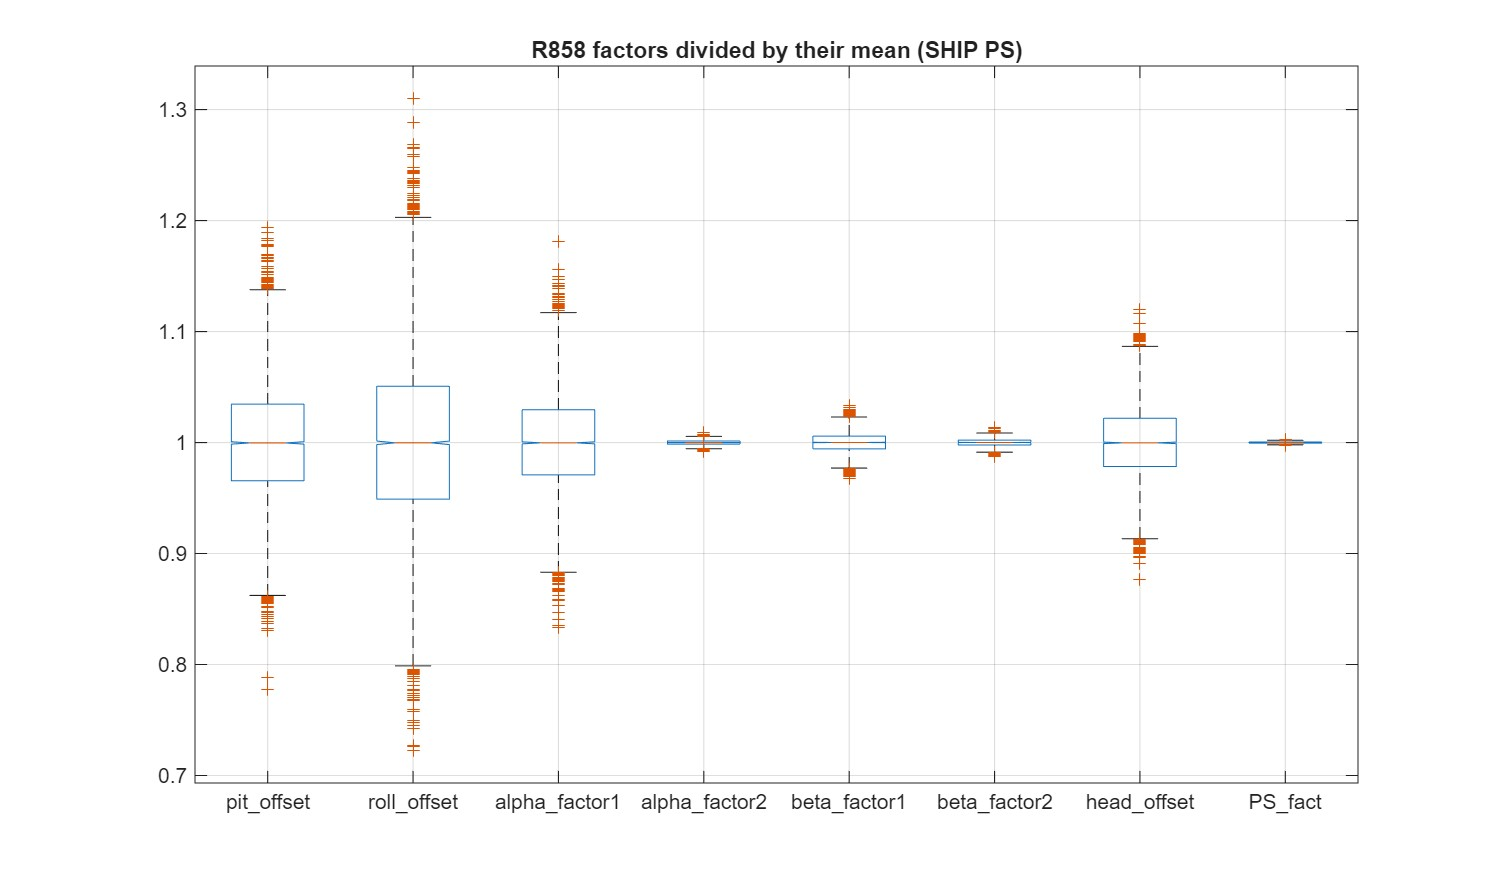
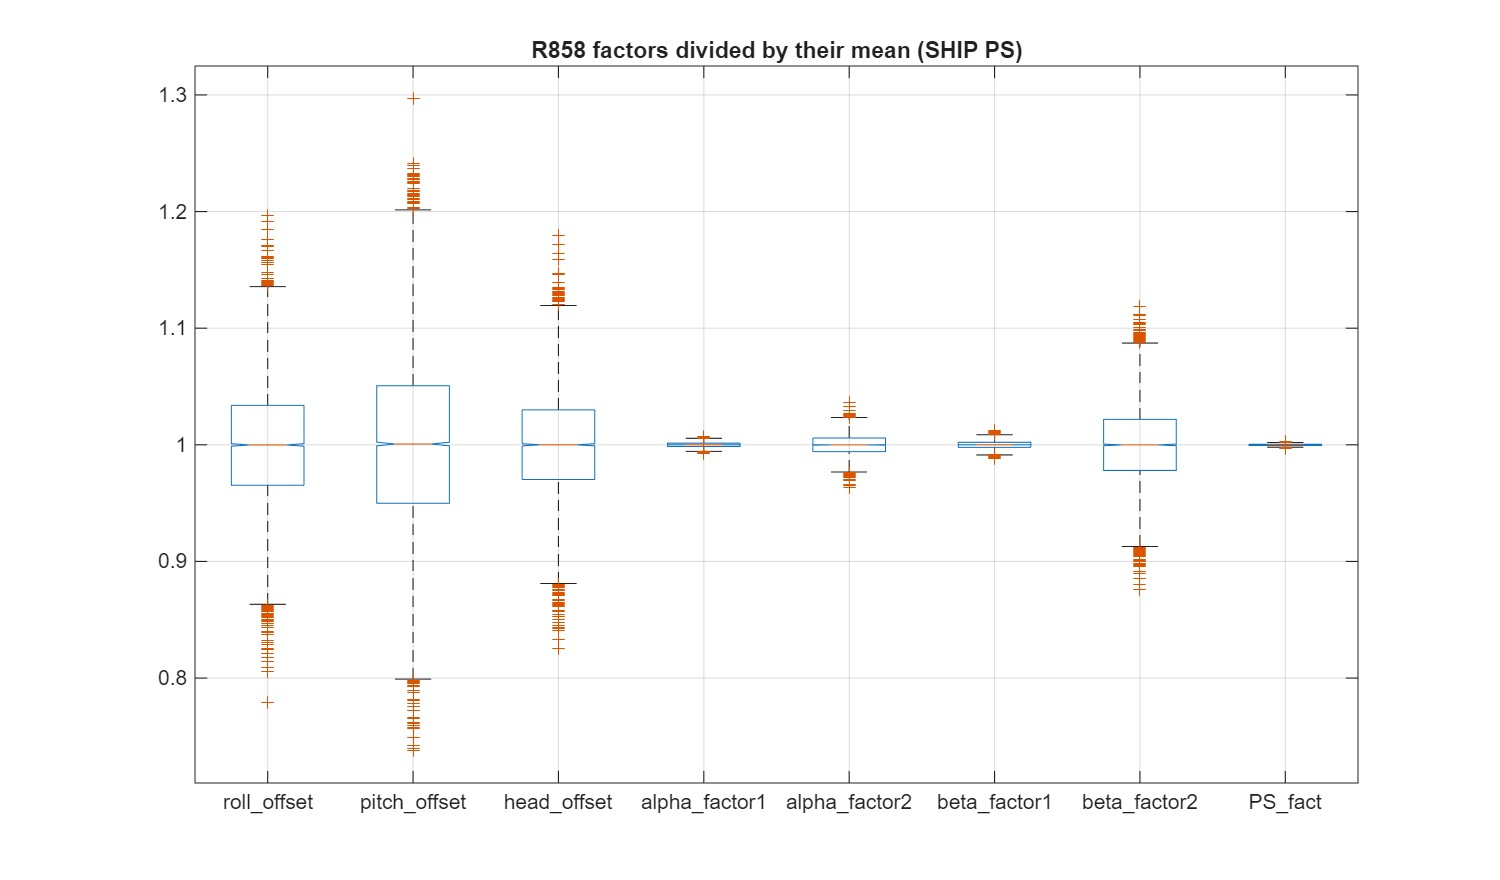
Fixed plot labels

diff --git a/processing26/do10process1.m b/processing26/do10process1.m
@@ -4,6 +4,7 @@ addpath('utils');
 
 nnn=0;
 ;
+datadir = 'P:/MATLAB-DATA2/kingair_data/';
 FLTs = ["20260408a_arrWork.c10.nc" "20260408b_arrWork.c10.nc"];
 DATE = extractBefore(FLTs{1},'_');
 s1=extractAfter(FLTs{1},'.c');
@@ -71,7 +72,7 @@ for pppp=1:numel(PRES)
     PRESSURE = PRES(pppp);
 
 for jj = 1:numel(FLTs)
-    dataDir = fullfile('P:/MATLAB-DATA2/kingair_data/',PROJ,'work');
+    dataDir = fullfile(datadir,PROJ,'work');
     arcFile = fullfile(dataDir,FLTs(jj));
     lastUnd = cellfun(@(s) find(s=='_',1,'last'), cellstr(arcFile));
     rawFile = [ extractBefore(arcFile, lastUnd) +  "_raw.nc"]; 
@@ -121,7 +122,7 @@ for jj = 1:numel(FLTs)
     
     %%%%%%%%%% Maneuver results
     PSfactor        = ncreadatt(arcFile,'/','AWinds.PStaticOffset'); 
-    PSfactor = 0;
+    PSfactor = 0; % Uncomment after revising AWINDS* header info to test
     boom_pcor = boom_pcor + PSfactor;
     ship_pcor = ship_pcor + PSfactor;
 
@@ -400,8 +401,8 @@ grid
 ss=sprintf('figs/Boxplot-factors-%s-PS.jpg',PRESSURE);
 saveas(gcf,ss,'jpg')
 
-cols = {'pit_offset' 'roll_offset' 'alpha_factor1' ...
-    'alpha_factor2' 'beta_factor1' 'beta_factor2' 'head_offset' 'PS_fact'};
+cols = {'roll_offset' 'pitch_offset' 'head_offset' 'alpha_factor1' ...
+    'alpha_factor2' 'beta_factor1' 'beta_factor2' 'PS_fact'};
 cols1 = strrep(cols, '_','\_');
 ii = contains(cols,'offset')
 facts = ii;
@@ -419,7 +420,7 @@ saveas(gcf,ss,'jpg')
 
 % Write out results 
 fid=fopen(["./maneuvers_" + PRESSURE + ".txt"],'w')
-fprintf(fid,                      'AWinds.Maneuver_date = 20260408');
+fprintf(fid,                'AWinds.Maneuver_date= %s;\n','20260408');
 fprintf(fid,            'AWinds.RollOffsetRadians= %g;\n',Params(1));
 fprintf(fid,           'AWinds.PitchOffsetRadians= %g;\n',Params(2));
 fprintf(fid,            'AWinds.HeadOffsetRadians= %g;\n',Params(3));

diff --git a/README.md b/README.md
@@ -14,5 +14,9 @@ edit do10process1.m
 % All files/segments will be concatenated
 NOTES:
 1.  Process runs twice for ship static and boom static measurements, respectively.  Plots automatically be generated for each.
+2.  Global attributes (AWINDS.*) are in the following files:
+    maneuvers_BOOM.txt (uses BOOM static)
+	maneuvers_SHIP.txt (uses SHIP static)
+3.  The *xlsx spreadsheets have tabulated results and confidence limits.
 ```
 